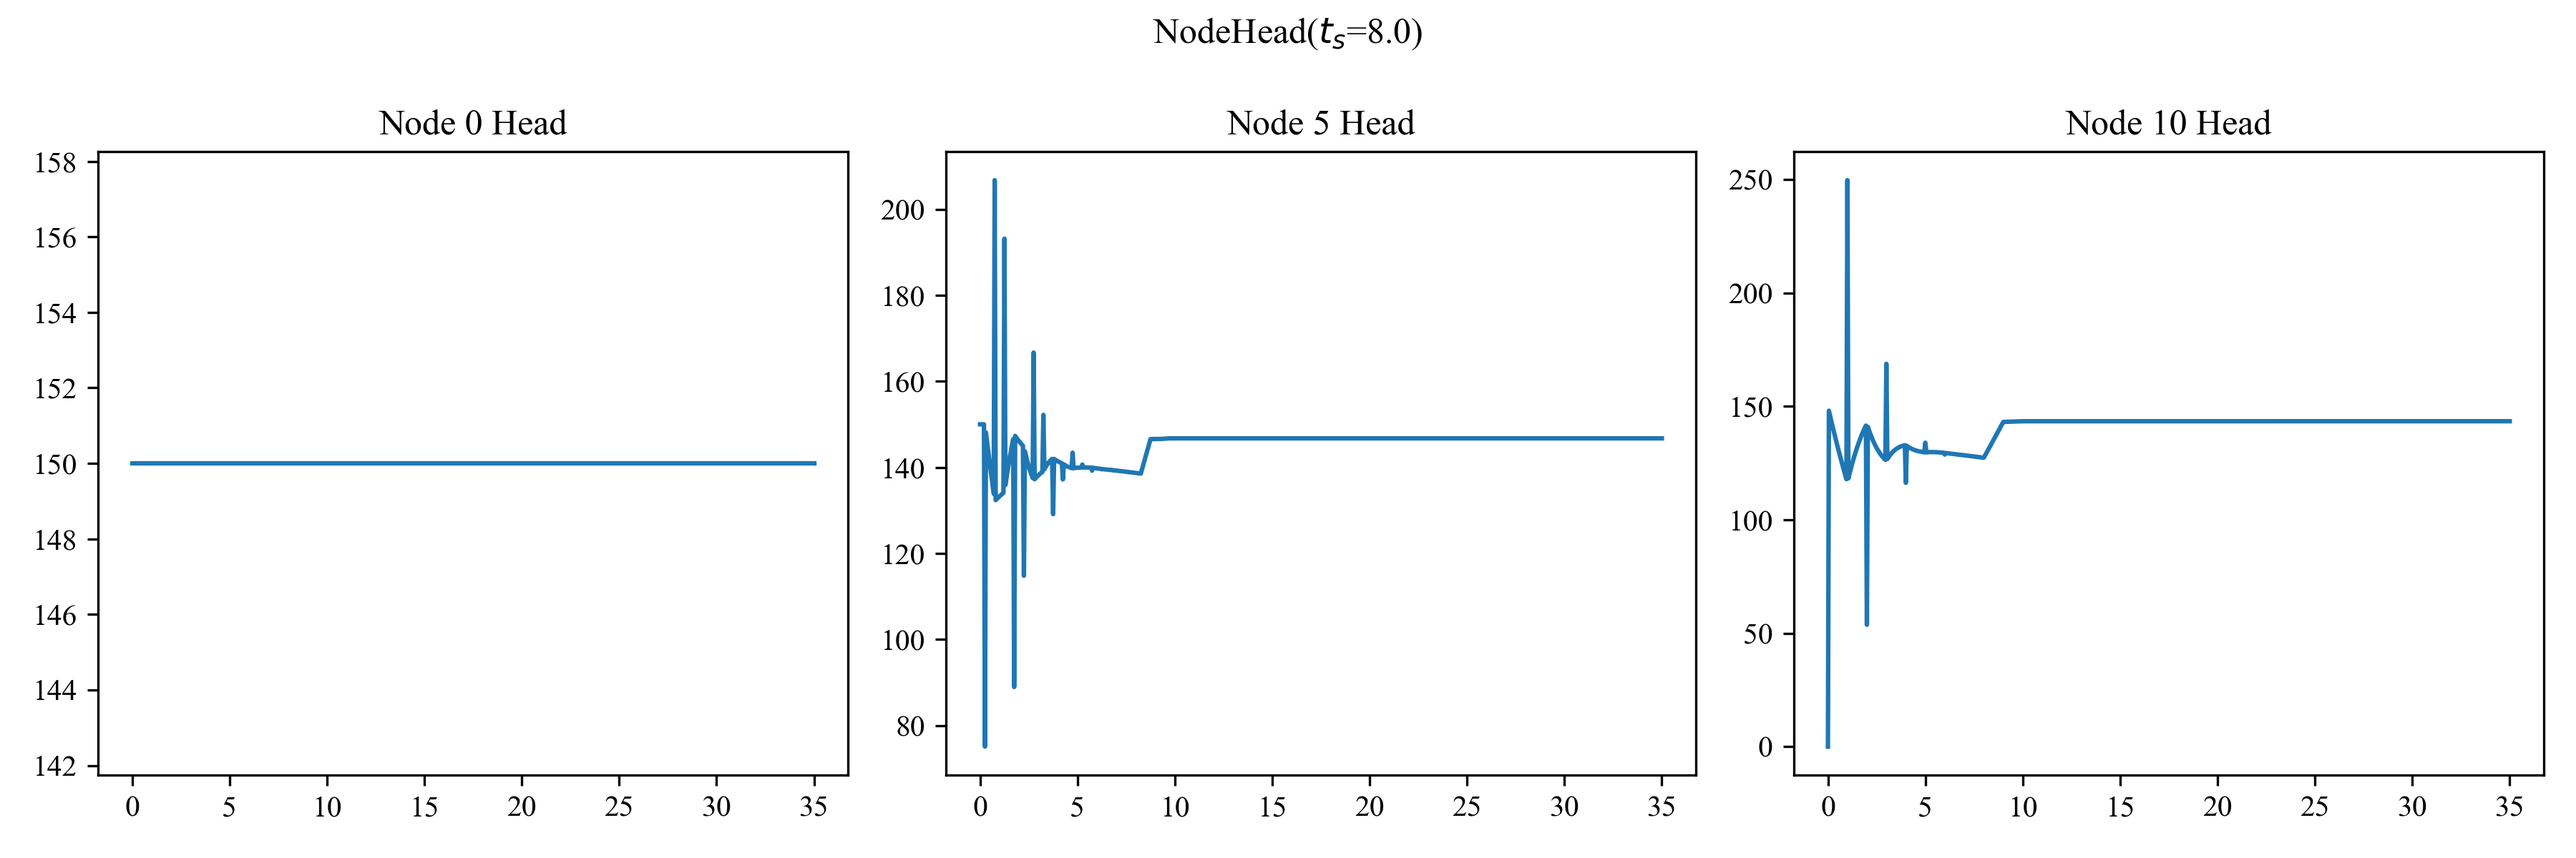
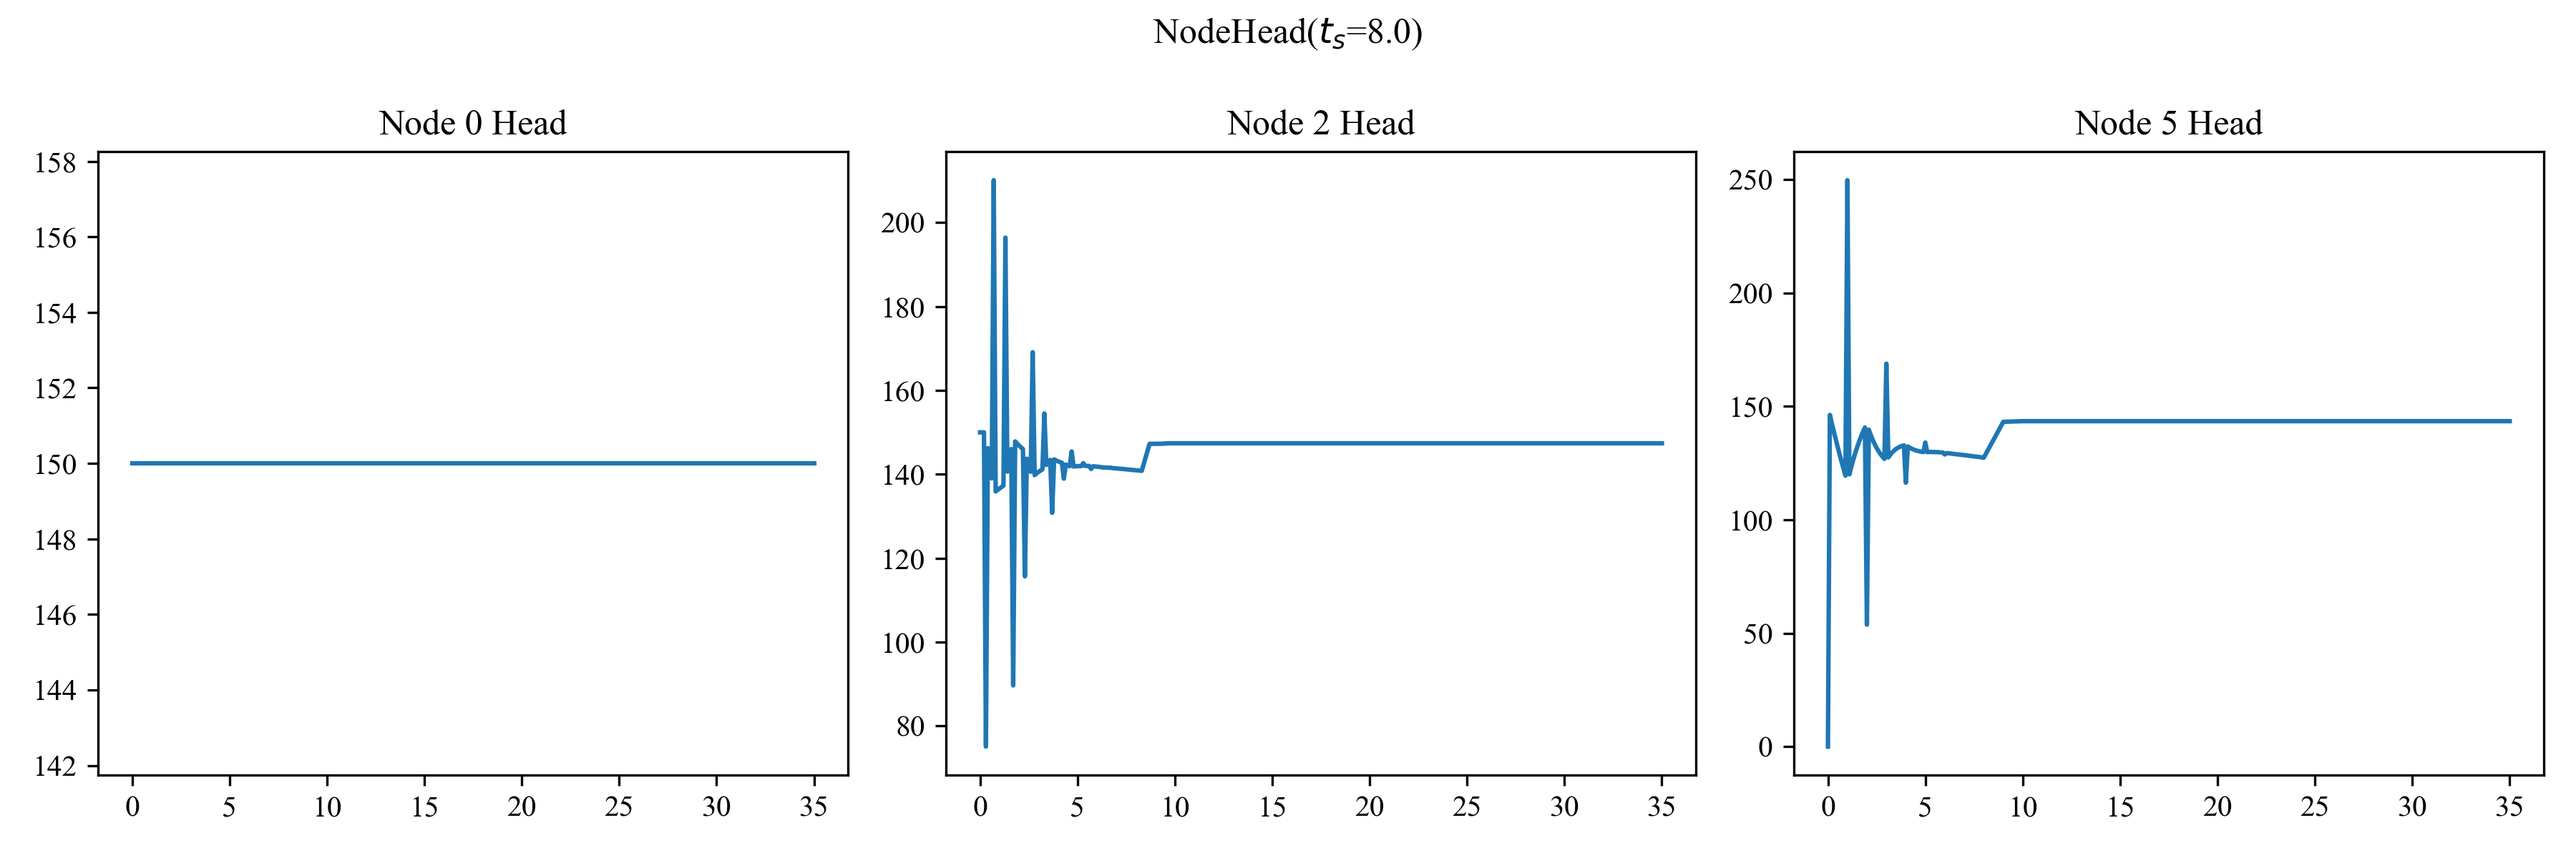
q4

diff --git a/自主研究探索课程（1）/作业/Question4/test.py b/自主研究探索课程（1）/作业/Question4/test.py
@@ -11,20 +11,20 @@ k = 0.009
 g = 9.806
 t_c = 4.0
 #阀门关闭时间
-t_s = 8.0
+t_s = 2.0
 #阀门开启时间
 E_m = 1
 Q_0 = k*np.sqrt(2*g*H_R)
 # 阀门全开时的流量
 
-N = 5
+N = 10
 # 管道分段
 
 # 初始化Q和H
 init = np.zeros(N+1)
 Q = np.array([init])
 H = np.array([init])+H_R
-H[0,N] = 0
+# H[0,N] = 0
 
 # 迭代计算
 dx = L/N
@@ -38,12 +38,13 @@ R = f*dx/(2*g*D*A**2)
 for i in range(1,N_t+1):
     t =  i*dt
     if t<t_s:
-        tau = t/t_s
+        tau = 0
+        # tau = t/t_s
         # tau = np.power(1-t/t_c,E_m)
         # tau = 1
     else:
-        tau = 1
         # tau = 1
+        tau = 0
     Q = np.append(Q,[init],axis=0)
     H = np.append(H,[init],axis=0)
     for j in range(N+1):
@@ -77,7 +78,7 @@ ax[2].plot([i*dt for i in range (N_t+1)],Q[:,N])
 ax[2].set_title('Node '+str(N)+' Traffic')
 plt.tight_layout()
 # 存储图像到Question4文件夹下
-plt.savefig('Question4/NodeTraffic(t_s='+str(t_s)[0:4]+').png',dpi=300)
+plt.show()
 
 # 画出水头H随时间变化
 fig, ax = plt.subplots(1,3)
@@ -90,4 +91,4 @@ ax[1].set_title('Node '+str(int(N/2))+' Head')
 ax[2].plot([i*dt for i in range (N_t+1)],H[:,N])
 ax[2].set_title('Node '+str(N)+' Head')
 plt.tight_layout()
-plt.savefig('Question4/NodeHead(t_s='+str(t_s)[0:4]+').png',dpi=300)
+plt.show()
